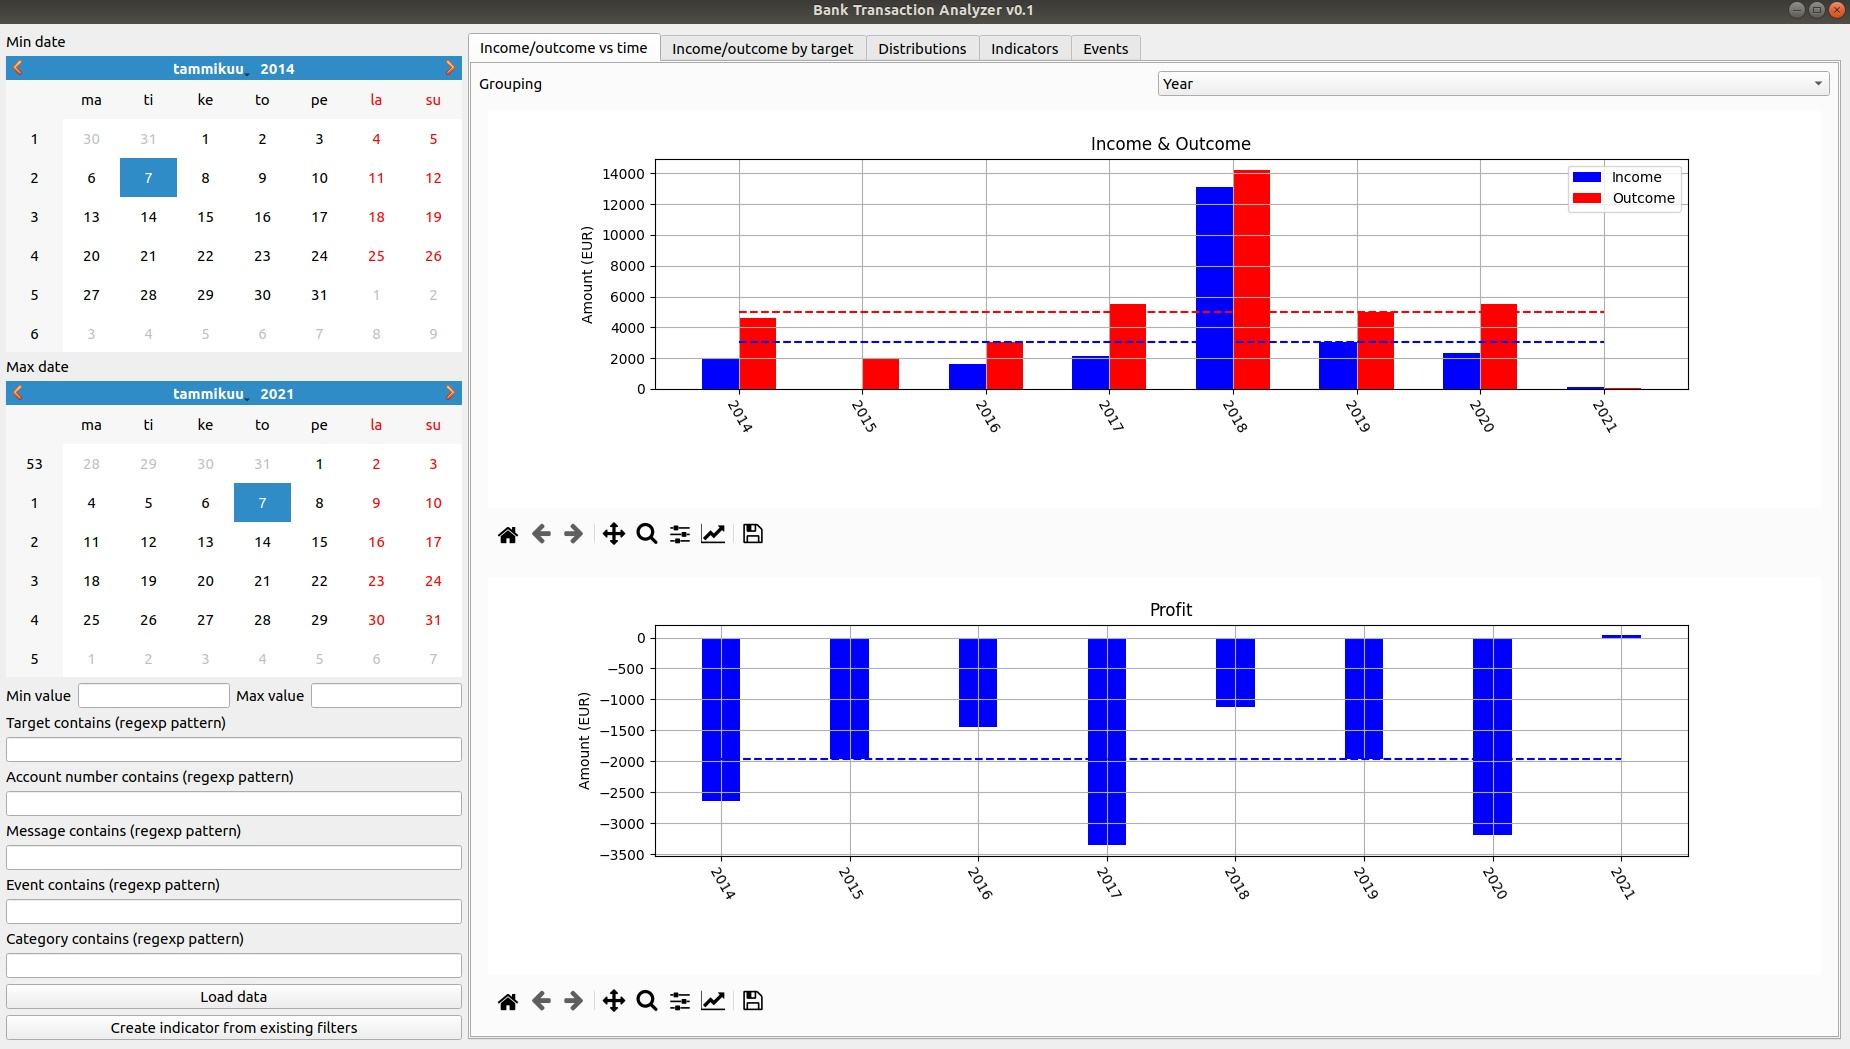
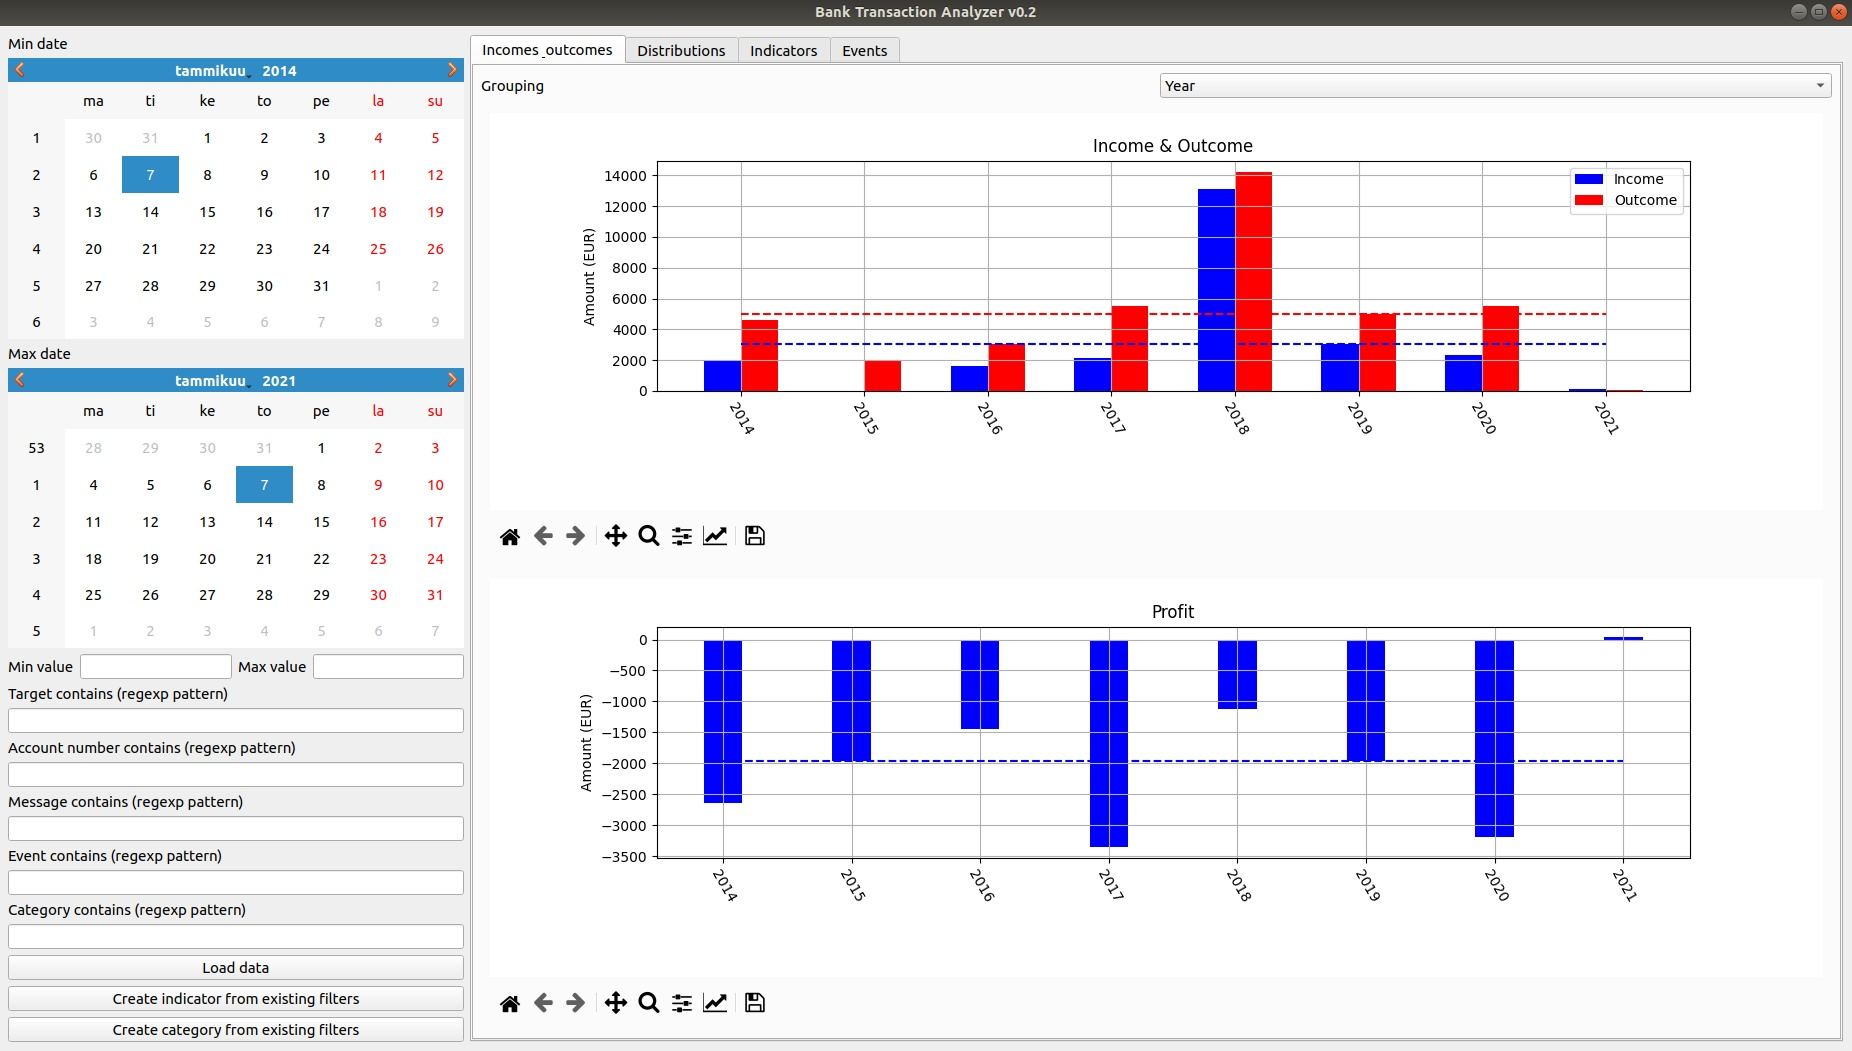
Update screenshots

diff --git a/README.md b/README.md
@@ -55,10 +55,6 @@ You can make your own category by creating new item in categories.json file or b
 </p>
 
 <p align="center">
-<img src="screenshots/Income-outcome by target.jpg" width="800px" />
-</p>
-
-<p align="center">
 <img src="screenshots/distributions.jpg" width="800px" />
 </p>
 
